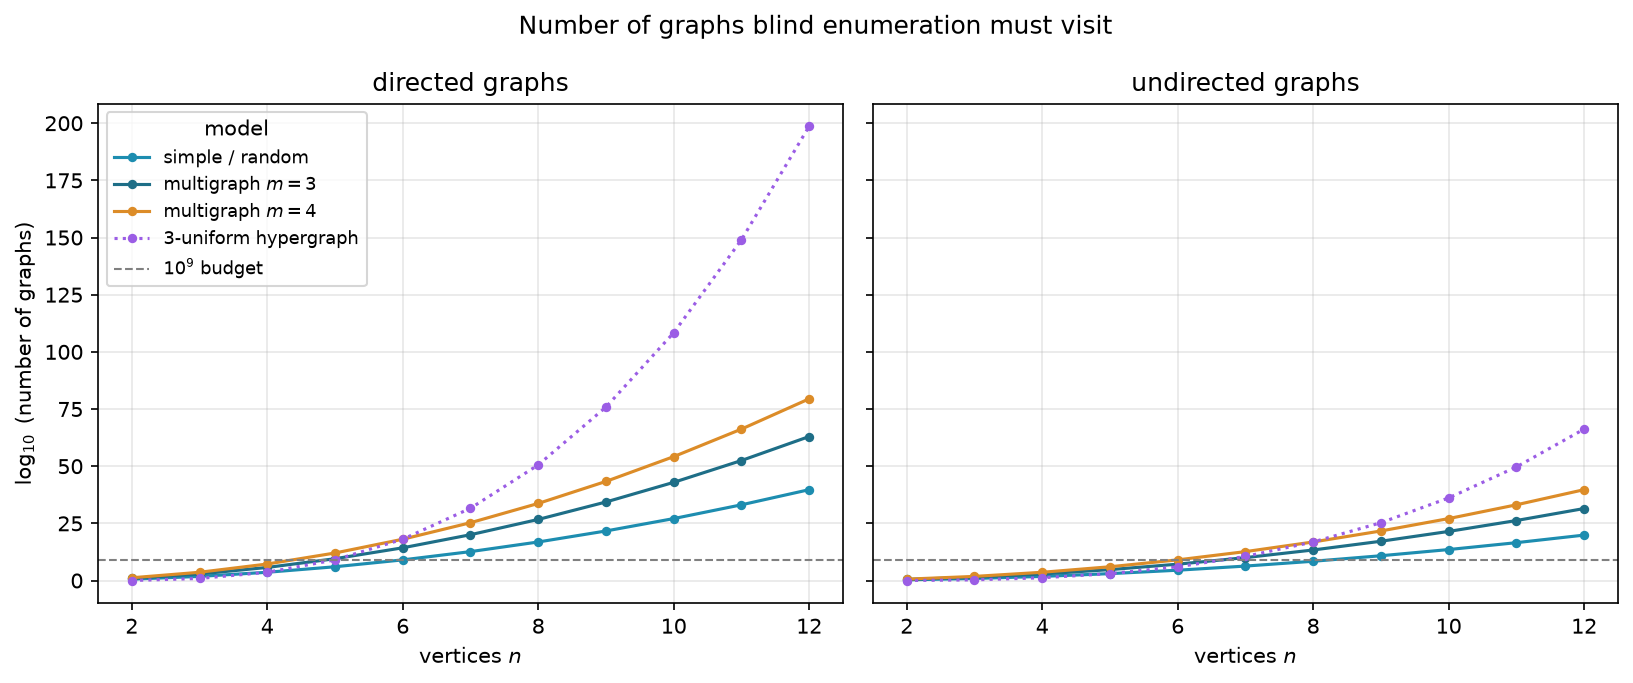
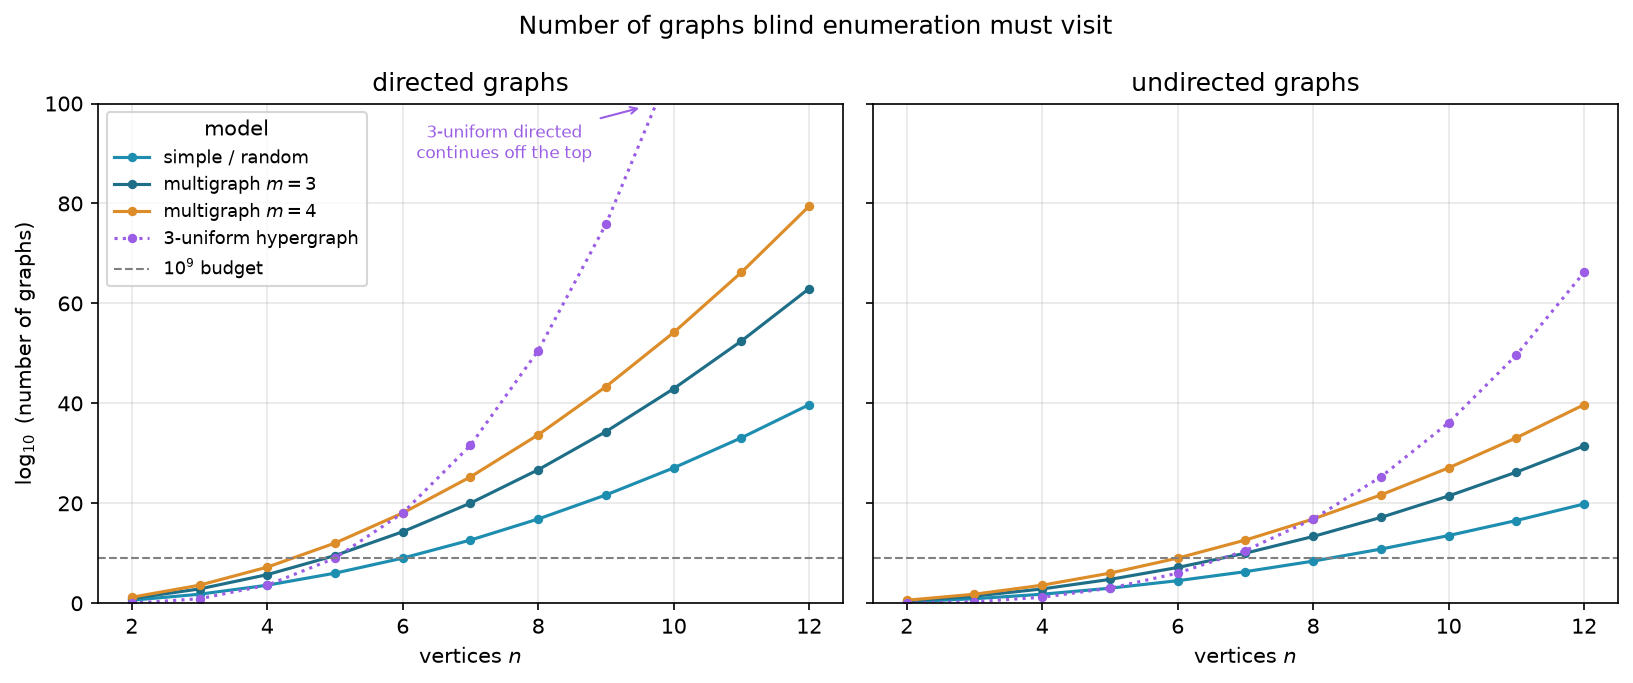
Figures 3.1 and 3.4: cap complexity y-axis at 100, thin sa-vs-tabu x-ticks
- plot_complexity_growth: cap the shared y-axis at log10=100 so the directed
  3-uniform hypergraph runs off the top (labelled) instead of squashing every
  other curve into a thin band, spreading the rest across the full height.
- plot_sa_vs_tabu_convergence: fewer x-ticks (4 on the n=5 panel, 6-target on
  the n=7 panel via MaxNLocator) to declutter the time axis.

diff --git a/program/erdos915_unified.py b/program/erdos915_unified.py
@@ -2913,7 +2913,7 @@ def plot_sa_vs_tabu_convergence(
     fig, axes = plt.subplots(1, len(cases), figsize=(11, 4.3))
     if len(cases) == 1:
         axes = [axes]
-    for ax, (n, m) in zip(axes, cases):
+    for i, (ax, (n, m)) in enumerate(zip(axes, cases)):
         sa = search_for_dense_graph(MULTI_DIRECTED, n, m, seed=seed, steps=10**7,
                                     deadline=time.time() + budget)
         tb = tabu_search_for_dense_graph(MULTI_DIRECTED, n, m, seed=seed,
@@ -2930,6 +2930,10 @@ def plot_sa_vs_tabu_convergence(
         ax.set_ylabel("densest feasible arc count", fontsize=9.5)
         ax.grid(True, alpha=0.3)
         ax.legend(fontsize=8.5, loc="lower right")
+        # Fewer x-ticks declutters the time axis: 4 on the first panel, 6 on the
+        # second, since the action concentrates early and dense ticks add noise.
+        if MaxNLocator is not None:
+            ax.xaxis.set_major_locator(MaxNLocator(nbins=4 if i == 0 else 6))
     _save(path)
 
 
@@ -3002,6 +3006,14 @@ def plot_complexity_growth(path: str | Path) -> None:
         ax.set_title(title)
         ax.set_xlabel("vertices $n$")
         ax.grid(True, alpha=0.3)
+    # Cap the shared vertical axis at 100 so the slowest curve (the directed
+    # 3-uniform hypergraph) runs off the top instead of compressing every other
+    # curve into a thin band near the bottom.  sharey=True propagates the limit.
+    axes[0].set_ylim(0, 100)
+    axes[0].annotate(r"$3$-uniform directed" + "\n" + r"continues off the top",
+                     xy=(9.55, 99.3), xytext=(7.5, 92), fontsize=8, color=_VIOLET,
+                     ha="center", va="center",
+                     arrowprops=dict(arrowstyle="->", color=_VIOLET, lw=1.0))
     axes[0].set_ylabel(r"$\log_{10}$ (number of graphs)")
     axes[0].legend(fontsize=8.5, loc="upper left", title="model")
     fig.suptitle("Number of graphs blind enumeration must visit",
